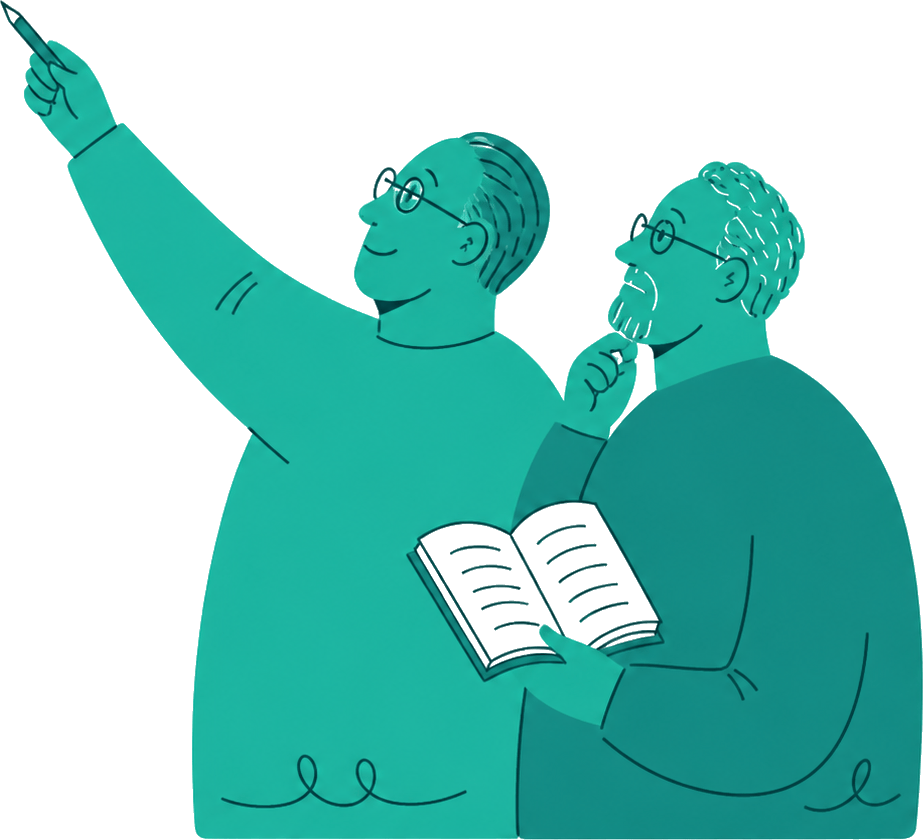
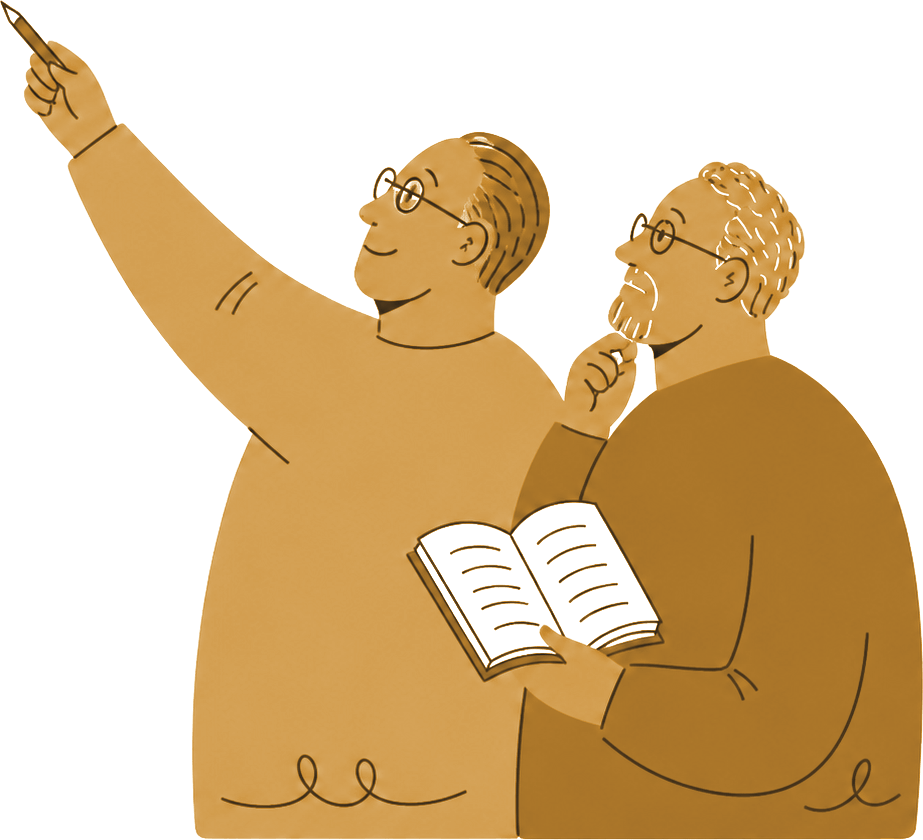
Illustrations : dessins de Bible Strong recolorés aux teintes d'Empreinte
Mêmes dessins, nouvelles teintes (terre, sauge, ocre, nuit, prune, sable,
ardoise) ; l'image Audio garde le fond marine de sa carte.

Claude-Session: https://claude.ai/code/session_01PU15sVuetb6ysNNZNdNBZ9

diff --git a/docs/ILLUSTRATIONS.md b/docs/ILLUSTRATIONS.md
@@ -44,3 +44,10 @@ Aînés : rides, cheveux gris ou blancs. Enfants : visage rond, grands yeux.
 Une fois les images obtenues, les déposer sous ces noms : l'app les utilise sans autre changement
 (les trois images `new-tab/*` sont aujourd'hui en `.webp` : remplacer par des `.png` du même nom et
 mettre à jour les deux `require` de `src/features/app-switcher/TabScreen/NewTab/`).
+
+## État actuel : dessins de Bible Strong recolorés
+
+En attendant de nouvelles illustrations, les quatorze images ci-dessus sont les dessins d'origine de
+Bible Strong, inchangés, passés dans les teintes d'Empreinte (terre, sauge, ocre, nuit, prune, sable,
+ardoise) par une carte de dégradé sur la luminosité. L'image Audio garde exactement son fond marine
+(#10284D), celui de sa carte : seuls ses violets sont passés au bleu.
